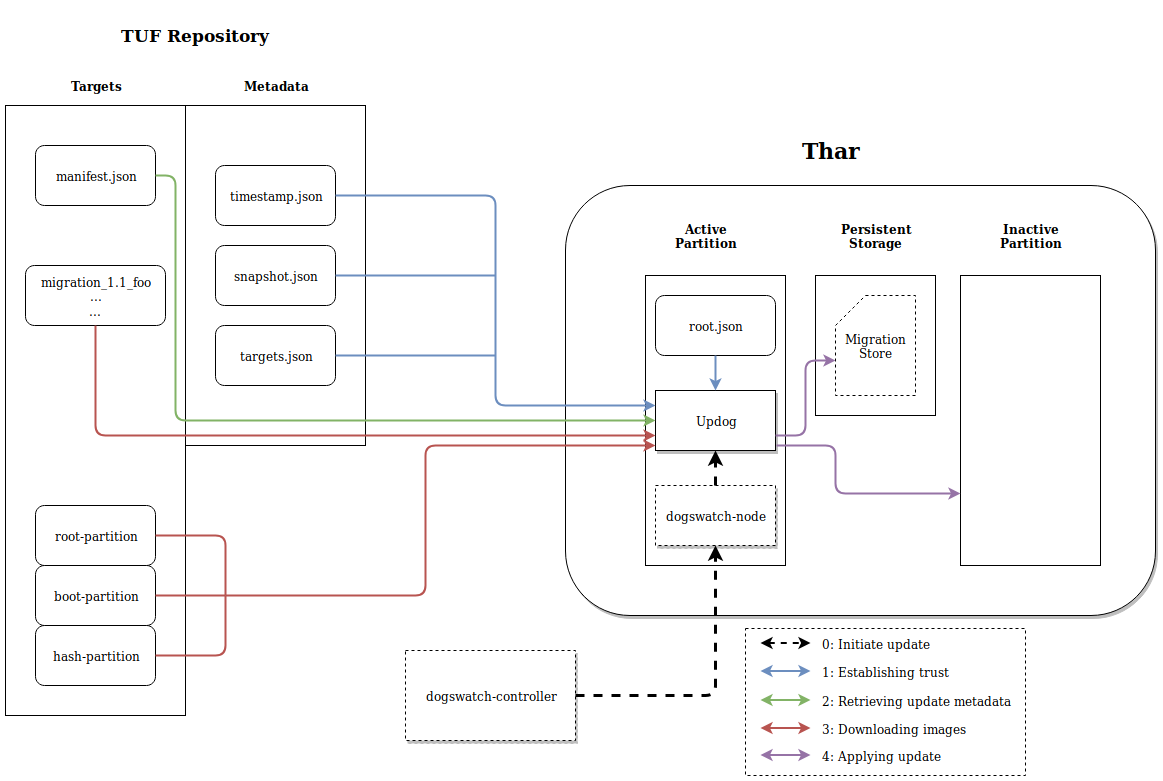
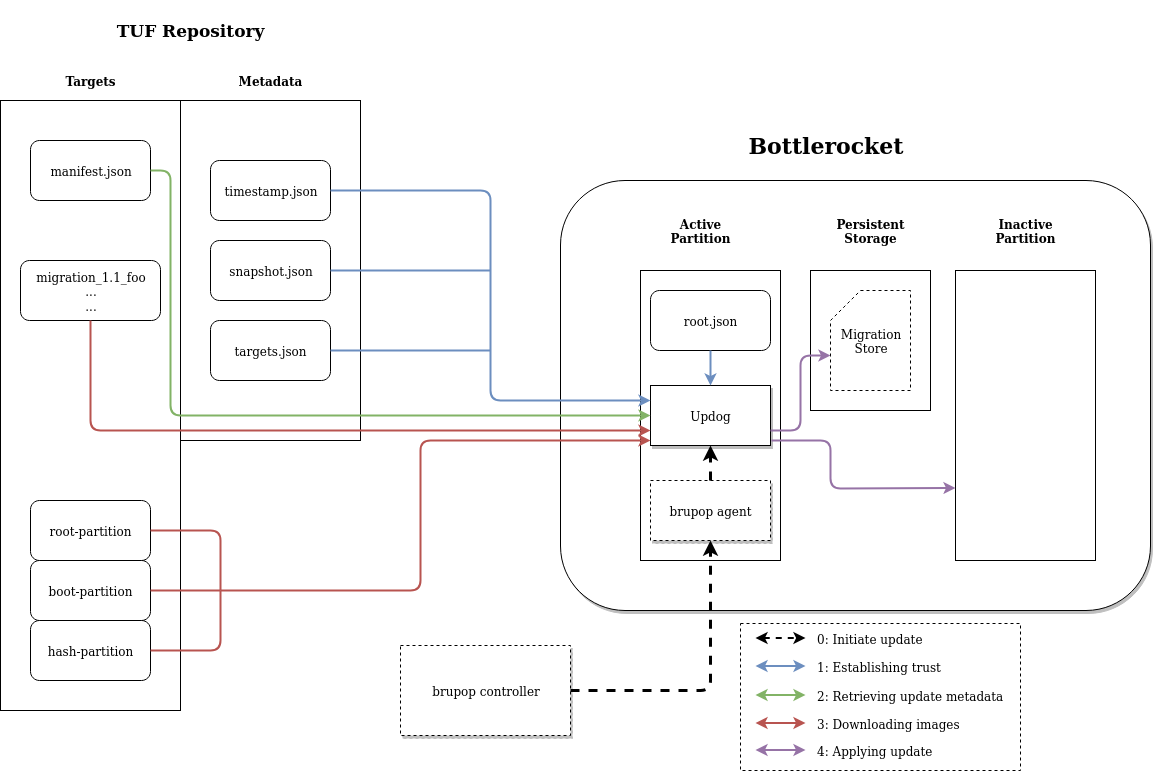
updater documentation: fix outdated references
Replaces references of `dogswatch` with `brupop`.
Replaces references of Thar with Bottlerocket

diff --git a/sources/updater/README.md b/sources/updater/README.md
@@ -4,7 +4,7 @@ This document describes the Bottlerocket update system and its components, namel
 - tough: implementation of "The Update Framework" (TUF)
 - updog: update client that interfaces with a TUF repository to find and apply updates
 - signpost: helper tool to update partition priority flags
-- dogswatch: an optional component that coordinates node updates with the rest of the cluster
+- Bottlerocket update operator (brupop): an optional component that coordinates node updates with the rest of the cluster
 
 ![Update overview](update-system.png)
 ## TUF and tough
